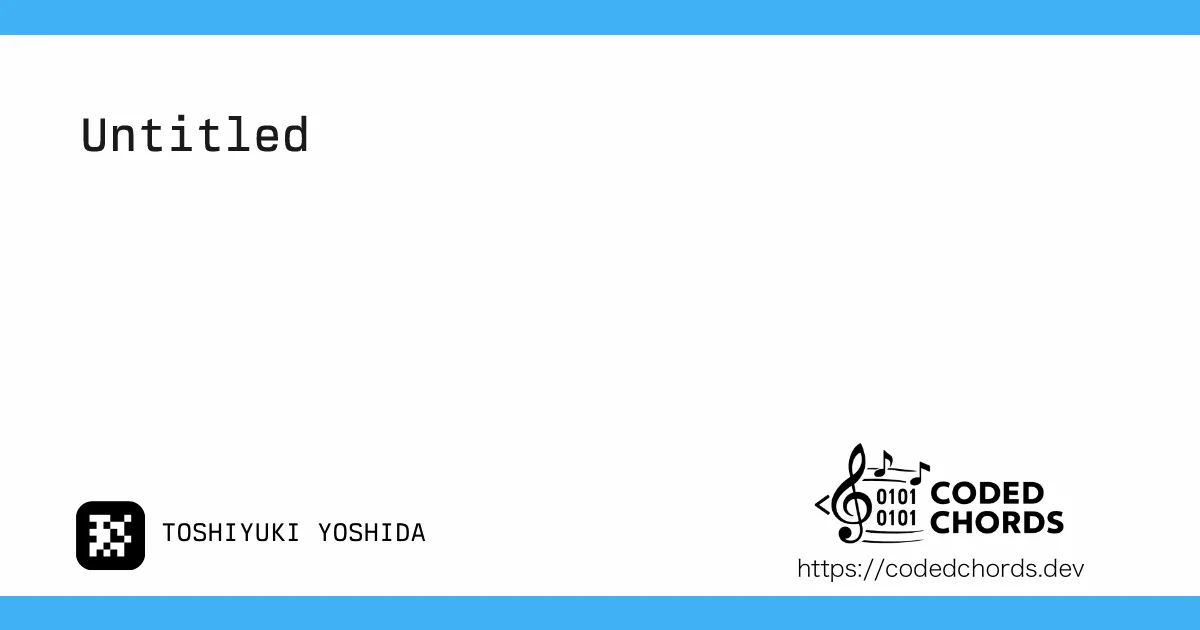
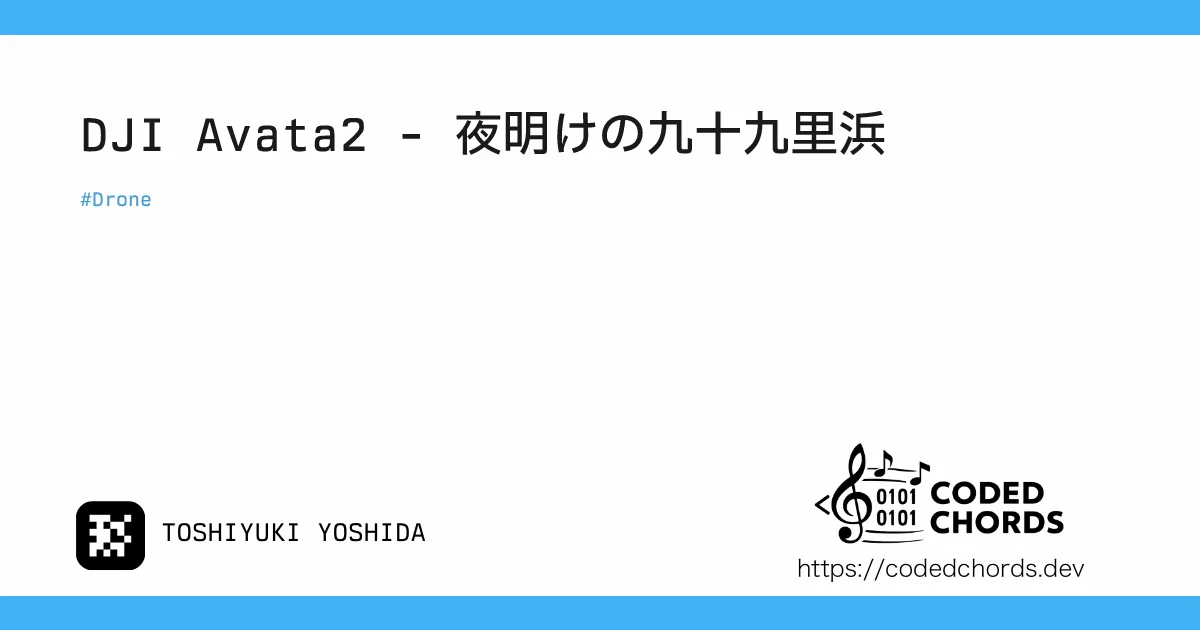
content: wrap shortcodes with textlint comments and refresh OGP

Changed region(s): [[0.37, 0.181, 0.74, 0.2413], [0.0617, 0.181, 0.3083, 0.2413], [0.0617, 0.3016, 0.1233, 0.3317]]

diff --git a/content/blog/2026/05/kujukuri/index.md b/content/blog/2026/05/kujukuri/index.md
@@ -11,7 +11,11 @@ social_media_card = "ogp.webp"
 local_image = "cover.webp"
 +++
 
+<!-- textlint-disable -->
+
 {{ image(src="cover.webp",alt="Cover") }}
+
+<!-- textlint-enable -->
 
 マニュアルモードでの飛行はまだまだ練習中ですが、
 夜明けの九十九里浜でAvata2を飛ばしてきました。
@@ -26,4 +30,8 @@ local_image = "cover.webp"
 
 半年ほど前に[DJI Air3S](https://youtu.be/FyY7xCteMH4?si=C_GO8jrUbPye74kX)を同じ場所で飛ばしましたが、まったく印象が違いますね。
 
+<!-- textlint-disable -->
+
 {{ youtube(id="UOYxX1o11uU") }}
+
+<!-- textlint-enable -->
